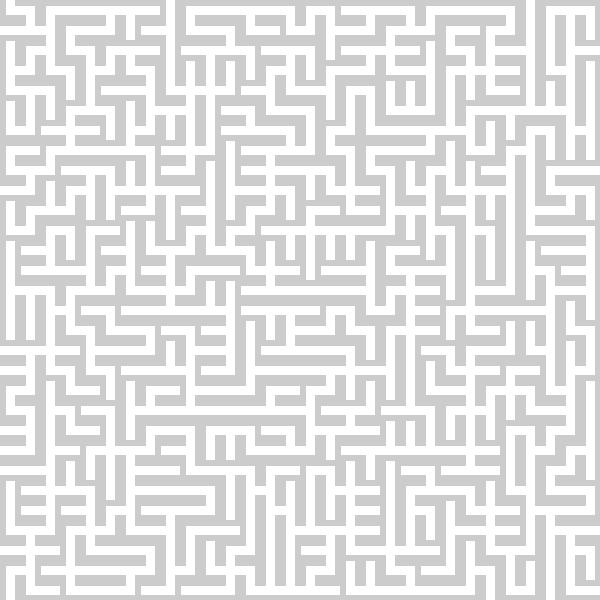
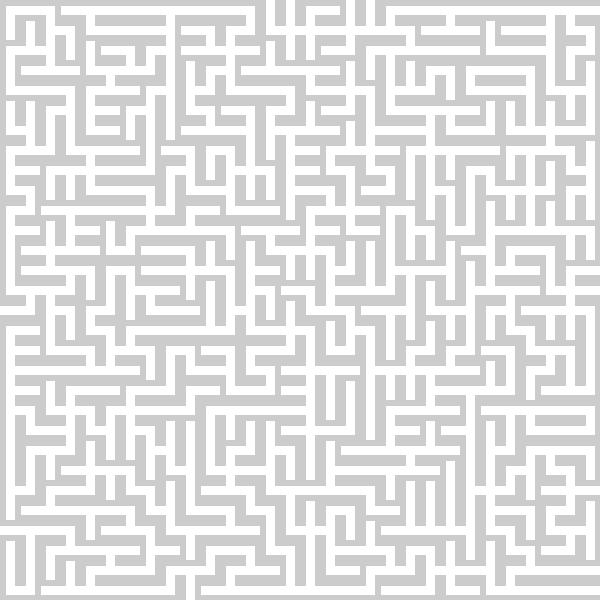
multiple ant farm worlds

diff --git a/MAZE/static/antfarm.js b/MAZE/static/antfarm.js
@@ -11,21 +11,12 @@ maxCounterNum = 0;
 var antColors = {}
 
 var antNames = ['picard','riker','la forge','worf','crusher','troi','data','wesley','o\'brien','guinan','q','ro']
-var antIds = {}
+var antIds = { }
 
-function shuffle(a) {
-    var j, x, i;
-    for (i = a.length; i; i -= 1) {
-        j = Math.floor(Math.random() * i);
-        x = a[i - 1];
-        a[i - 1] = a[j];
-        a[j] = x;
-    }
-}
+
 
 function setAntName(antid){
     if (!(antid in antIds)){
-        shuffle(antNames)
         var thisName = antNames[0]
         antIds[antid] = thisName
         antNames.shift()
@@ -265,7 +256,7 @@ function setFoodGathered(data){
 }
 
 function incrementWorld() {
-    var url = '/ant/api/v1.0/actions/' + counter;
+    var url = '/ant/api/v1.0/actions/'+MAZEID+'/' + counter;
     var result = d3.json(url, function(error,data){
         if (error){
             console.log('error getting ant action')
@@ -321,7 +312,7 @@ function incrementWorld() {
 }
 
 function refreshMaxCounter(){
-    var result = d3.json('/ant/api/v1.0/max-counter', function(error,data){
+    var result = d3.json('/ant/api/v1.0/'+MAZEID+'/max-counter', function(error,data){
         if (error){
             console.log('error getting max counter')
         } else {

diff --git a/MAZE/static/antfarm.css b/MAZE/static/antfarm.css
@@ -3,6 +3,7 @@
 }
 
 #content{
+    z-index:10;
     position: absolute;
     margin: 0 auto;
     background: #ddd;
@@ -26,8 +27,8 @@
 
 #antfarm{
     display: block;
-    width: 960px;
-    height: 800px;
+    width: 640px;
+    height: 640px;
     position: relative;
 }
 #antfarm img{
@@ -53,17 +54,18 @@
 }
 
 #stats-panel{
+    
     position: fixed;
     left: 0;
     top: 0;
     bottom: 0;
-    width: 200px;
+    width: 220px;
     height: 100%;
     overflow-x: hidden;
     overflow-y: auto;
     background: rgba(20,20,20,.75);
     color: #fff;
-    z-index:100;
+    z-index:1;
     transition: all 0.5s;
         -webkit-transition: all 0.5s;
         -moz-transition: all 0.5s;
@@ -103,10 +105,10 @@
     font-size: 12px;
 }
 #stats-panel.expanded{
-    width: 200px;
+    width: 220px;
 }
 #stats-panel.collapsed{
-    width: 20px;   
+    width: 40px;   
 }
 .panel-container{
     width: 230px;

diff --git a/MAZE/templates/maze.html b/MAZE/templates/maze.html
@@ -4,11 +4,7 @@
 {% block content %}
     <div class="container">
         <div class="col-xs-12 col-md-10 col-md-push-1">
-            {% if num %}
-              <h1>Hello {{ num }}!</h1>
-            {% else %}
-              <h1>Hello from the ant farm</h1>
-            {% endif %}
+            <h1>Hello from the antfarm</h1>
             <div id = "antfarm">
                 
             </div>
@@ -25,6 +21,15 @@
 {% endblock %}
 
 {% block footerjs %}
+    {% if maze_id %}
+        <script>
+            window.MAZEID = {{maze_id}}
+        </script>
+    {% else %}
+        <script>
+            window.MAZEID = 0
+        </script>
+    {% endif %}
     <script src = "../static/antfarm.js"></script>
     <script src = "../static/draw-maze.js"></script>
     <script src = "../static/statspanel.js"></script>

diff --git a/MAZE/static/draw-maze.js b/MAZE/static/draw-maze.js
@@ -1,6 +1,6 @@
 var Maze = {
     'init' : function(){
-        var result = d3.json('/ant/api/v1.0/get-maze', function(error,data){
+        var result = d3.json('/ant/api/v1.0/'+MAZEID+'/get-maze', function(error,data){
             if (error) {
                 console.log('error getting maze')
             } else {

diff --git a/MAZE/app.py b/MAZE/app.py
@@ -3,79 +3,71 @@ import json
 from threading import Thread,Timer
 from operator import itemgetter
 from flask import Flask,render_template,session,request
+from collections import defaultdict
 
 import antfarm
 
 app = Flask(__name__)
-#COUNTER = 0
-ANT_FARM = None
-WORLD = {}
-CLIENT_COUNTER = 0
+
+class World(object):
+
+    def __init__(self):
+        self.farm = antfarm.AntFarm()
+        self.farm.populate_farm()
+        self.info = {}
+        self.client_counter = 0
+
+WORLDS = defaultdict(World)
 
 @app.route('/')
-@app.route('/<num>')
-def ant_maze(num=None):
-    global ANT_FARM
+@app.route('/<int:maze_id>')
+def ant_maze(maze_id=0):
+    world = WORLDS[maze_id]
 
-    if not ANT_FARM:
-        ANT_FARM = antfarm.AntFarm()
-
-    return render_template('maze.html', num=num)
+    return render_template('maze.html', maze_id=maze_id)
 
 
-@app.route('/ant/api/v1.0/actions/<int:action_id>', methods=['GET'])
-def get_action(action_id):
-    global WORLD
-    global CLIENT_COUNTER
+@app.route('/ant/api/v1.0/actions/<int:maze_id>/<int:action_id>', methods=['GET'])
+def get_action(maze_id,action_id):
+    world = WORLDS[maze_id]
 
-    if action_id > CLIENT_COUNTER:
-        CLIENT_COUNTER = action_id
+    if action_id > world.client_counter:
+        world.client_counter = action_id
 
-    return WORLD[action_id]
+    return world.info[action_id]
 
-@app.route('/ant/api/v1.0/max-counter', methods=['GET'])
-def get_max_counter():
-    global ANT_FARM
-    
-    ANT_FARM.counter
+@app.route('/ant/api/v1.0/<int:maze_id>/max-counter', methods=['GET'])
+def get_max_counter(maze_id):
+    world = WORLDS[maze_id]    
     ret = {
-        "max": ANT_FARM.counter
+        "max": world.farm.counter
     }
 
     return json.dumps(ret)
 
-@app.route('/ant/api/v1.0/get-maze', methods=['GET'])
-def get_maze():
-    global ANT_FARM
+@app.route('/ant/api/v1.0/<int:maze_id>/get-maze', methods=['GET'])
+def get_maze(maze_id):
+    world = WORLDS[maze_id]
 
-    ANT_FARM.a_svg_maze
     ret = {
-        'maze' : ANT_FARM.a_svg_maze
+        'maze' : world.farm.a_svg_maze
     }
 
     return json.dumps(ret)
 
 
 def increment_world():
-    #global COUNTER
-    global WORLD
-    global ANT_FARM
-    global CLIENT_COUNTER
+    for key in WORLDS:
+        world = WORLDS[key]    
+        # only do work on the server 10 moves ahead of client
+        if world.farm.counter <= 10 + world.client_counter:
+            world.farm.run_farm()
+            world.info[world.farm.counter] = world.farm.make_json()
 
-    if not ANT_FARM:
-        # populate ant farm
-        ANT_FARM = antfarm.AntFarm()        
-        ANT_FARM.populate_farm()
-    
-    # only do work on the server 10 moves ahead of client
-    if ANT_FARM.counter <= 10 + CLIENT_COUNTER:
-        ANT_FARM.run_farm()
-        WORLD[ANT_FARM.counter] = ANT_FARM.make_json()
+            world.farm.counter += 1
 
-        ANT_FARM.counter += 1
-
-        print 'ANT FARM COUNTER: ',ANT_FARM.counter
-        #COUNTER += 1
+            print 'ANT FARM COUNTER: ', world.farm.counter
+            #COUNTER += 1
     
 def threaded_function():   
     increment_world()
